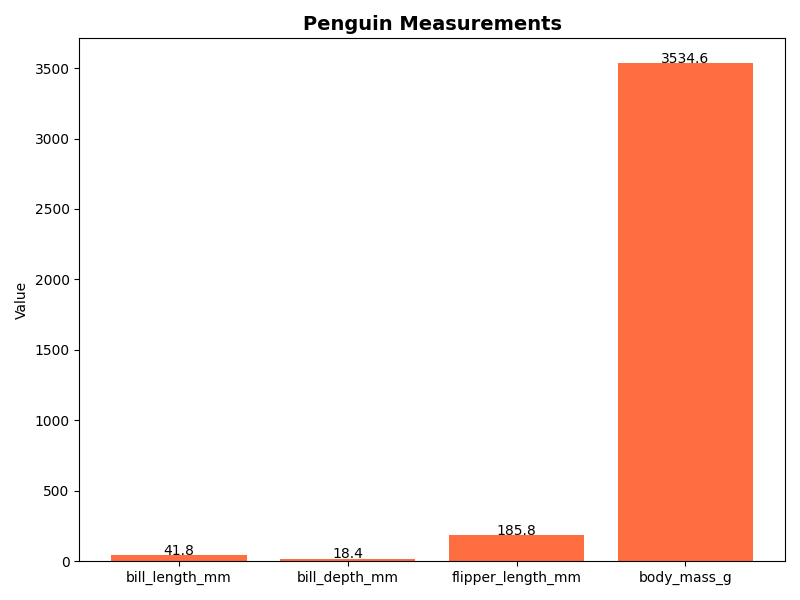
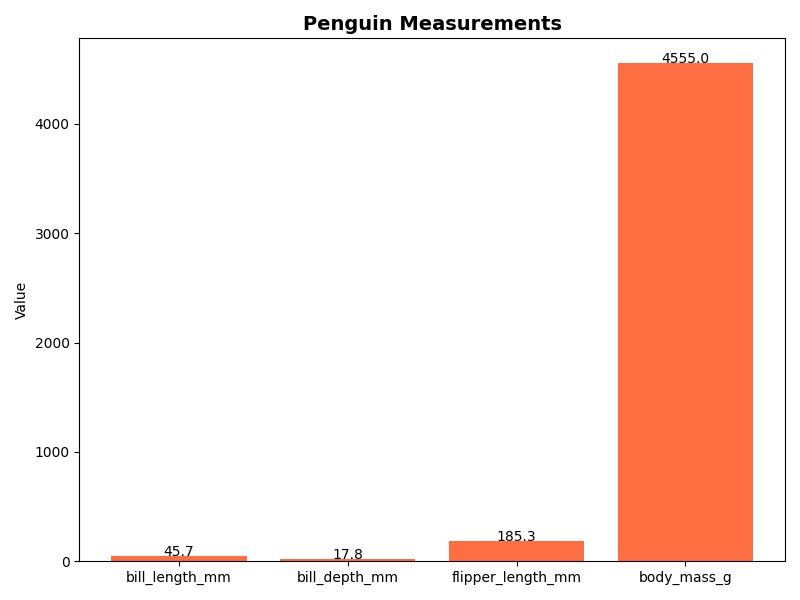
Update penguin prediction for 2025-03-27

diff --git a/index.html b/index.html
@@ -46,16 +46,16 @@
 <body>
     <div class="container">
         <h1>Penguin Prediction Report</h1>
-        <p><strong>Date:</strong> 2025-03-26</p>
-        <p><strong>Time:</strong> 18:42:56</p>
+        <p><strong>Date:</strong> 2025-03-27</p>
+        <p><strong>Time:</strong> 07:35:25</p>
 
         <div class="prediction">
             <h2>Prediction Details</h2>
             <p><strong>Predicted Species:</strong> Adelie</p>
-            <p><strong>Bill Length (mm):</strong> 41.786808010928105</p>
-            <p><strong>Bill Depth (mm):</strong> 18.36205452809839</p>
-            <p><strong>Flipper Length (mm):</strong> 185.80738596577768</p>
-            <p><strong>Body Mass (g):</strong> 3534.640700219048</p>
+            <p><strong>Bill Length (mm):</strong> 45.687098989175226</p>
+            <p><strong>Bill Depth (mm):</strong> 17.81369500094816</p>
+            <p><strong>Flipper Length (mm):</strong> 185.3148608425986</p>
+            <p><strong>Body Mass (g):</strong> 4554.993173705314</p>
             <p><strong>Sex:</strong> </p>
             <p class="note">This is likely one of the Penguins of Madagascar!</p>
         </div>
